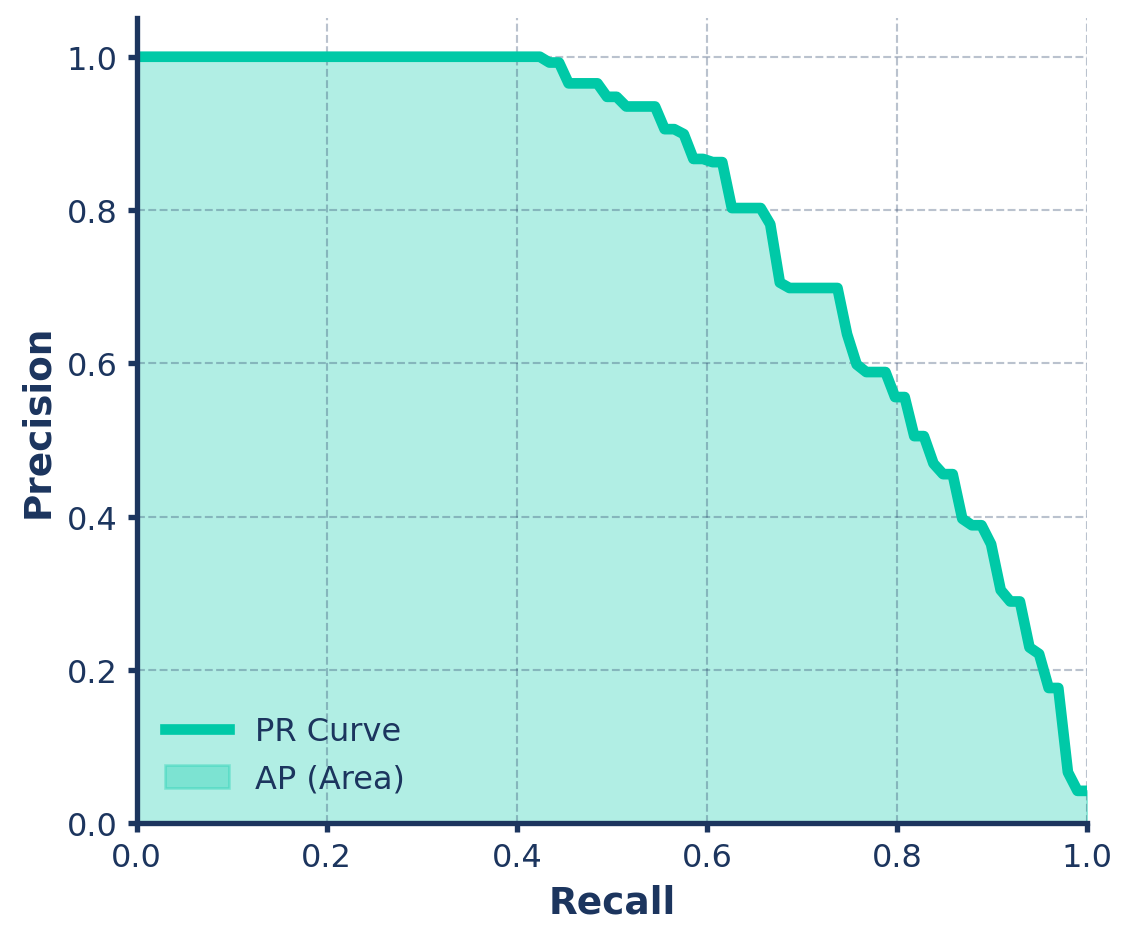
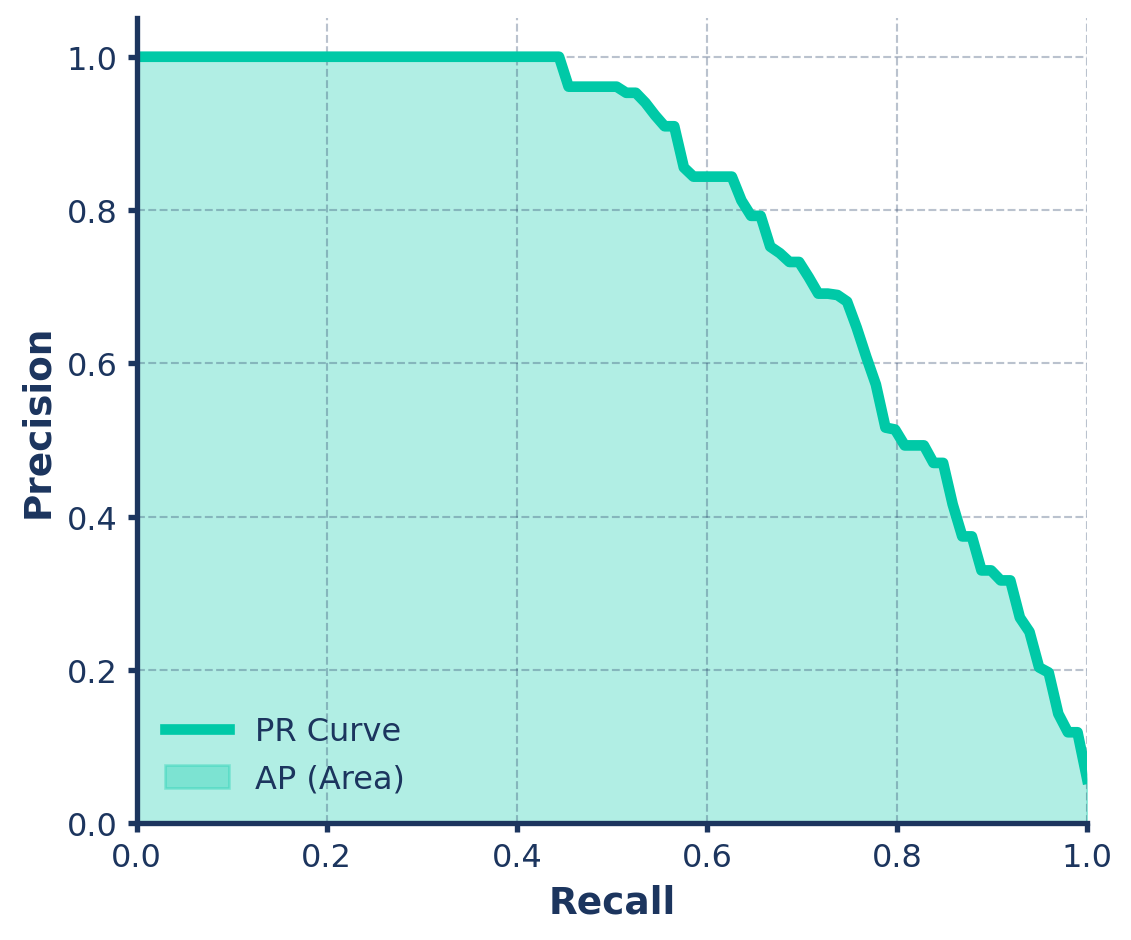
fix slides

Changed region(s): [[0.588, 0.1234, 0.9593, 0.8638], [0.4951, 0.0617, 0.588, 0.1234]]

diff --git a/docs/slides/Ultralytics_Foundations_1_Tasks_Inference.html b/docs/slides/Ultralytics_Foundations_1_Tasks_Inference.html
@@ -239,7 +239,7 @@
 <h2>Image Classification Output Concept</h2>
 <div class="columns">
 <div class="column" style="width:55%;">
-<div id="8253999c" class="cell" data-execution_count="2">
+<div id="8512382c" class="cell" data-execution_count="2">
 <div class="cell-output cell-output-display">
 <div class="quarto-figure quarto-figure-center">
 <figure>
@@ -255,11 +255,11 @@
 <li class="fragment"><strong><code>top1conf</code> (0.95)</strong>: Confidence score of the top class.</li>
 <li class="fragment"><strong><code>probs</code></strong>: Array of probabilities for <em>all</em> possible classes.</li>
 </ul>
-</div><div class="callout callout-note no-icon callout-style-simple">
+</div></div>
+<div class="callout callout-note no-icon callout-style-simple">
 <div class="callout-body">
 <div class="callout-content">
 <p><strong>Multi-Label Classification</strong> Since <code>probs</code> evaluates <em>every</em> class, we can predict <strong>multiple labels</strong> for a single image by applying a confidence threshold (e.g., keeping all classes with <code>prob &gt; 0.50</code>) instead of just taking the <code>top1</code> prediction.</p>
-</div>
 </div>
 </div>
 </div>
@@ -285,7 +285,7 @@
 <h2 data-id="quarto-animate-title">Object Detection Output &amp; Confidence</h2>
 <div class="columns" data-id="model-output">
 <div class="column" style="width:55%;">
-<div id="ac411e9d" class="cell" data-execution_count="3">
+<div id="d847902e" class="cell" data-execution_count="3">
 <div class="cell-output cell-output-display">
 <div class="quarto-figure quarto-figure-center">
 <figure>
@@ -302,11 +302,11 @@
 <li class="fragment"><strong><code>conf</code> (0.85)</strong>: The confidence score.</li>
 <li class="fragment"><strong><code>cls</code> (0)</strong>: The class ID.</li>
 </ul>
-</div><div class="callout callout-note no-icon callout-style-simple">
+</div></div>
+<div class="callout callout-note no-icon callout-style-simple">
 <div class="callout-body">
 <div class="callout-content">
 <p><strong>Filtering Predictions</strong> We use a <strong>Confidence Threshold</strong> to automatically drop weak predictions (e.g., ignoring any box with <code>conf &lt; 0.50</code>).</p>
-</div>
 </div>
 </div>
 </div>
@@ -315,7 +315,7 @@
 <h2 data-id="quarto-animate-title">Mapping to Bounding Boxes</h2>
 <div class="columns" data-id="model-output">
 <div class="column" style="width:55%;">
-<div id="9e78a7b2" class="cell" data-execution_count="4">
+<div id="5acf6836" class="cell" data-execution_count="4">
 <div class="cell-output cell-output-display">
 <div class="quarto-figure quarto-figure-center">
 <figure>
@@ -409,7 +409,7 @@ y_{max} &amp;= cy + \frac{h}{2} = 7.5 + 3.5 = 11.0
 <h2>Instance Segmentation Output Concept</h2>
 <div class="columns">
 <div class="column" style="width:55%;">
-<div id="a98473da" class="cell" data-execution_count="5">
+<div id="6708eac8" class="cell" data-execution_count="5">
 <div class="cell-output cell-output-display">
 <div class="quarto-figure quarto-figure-center">
 <figure>
@@ -449,7 +449,7 @@ y_{max} &amp;= cy + \frac{h}{2} = 7.5 + 3.5 = 11.0
 <h2>Pose Estimation Output Concept</h2>
 <div class="columns">
 <div class="column" style="width:55%;">
-<div id="e1a8e8ed" class="cell" data-execution_count="6">
+<div id="1a5fd2b9" class="cell" data-execution_count="6">
 <div class="cell-output cell-output-display">
 <div class="quarto-figure quarto-figure-center">
 <figure>
@@ -490,7 +490,7 @@ y_{max} &amp;= cy + \frac{h}{2} = 7.5 + 3.5 = 11.0
 <h2>OBB (Oriented Bounding Box) Output Concept</h2>
 <div class="columns">
 <div class="column" style="width:55%;">
-<div id="ceae7beb" class="cell" data-execution_count="7">
+<div id="62bb0c1d" class="cell" data-execution_count="7">
 <div class="cell-output cell-output-display">
 <div class="quarto-figure quarto-figure-center">
 <figure>
@@ -600,8 +600,10 @@ y_{max} &amp;= cy + \frac{h}{2} = 7.5 + 3.5 = 11.0
 </section>
 <section id="qa" class="slide level2 sdaia-dark" data-background-color="#1C355E">
 <h2>Q&amp;A</h2>
+<div class="r-fit-text">
 <p><strong>Thank You!</strong></p>
 <p>Any questions?</p>
+</div>
 
 </section></section>
     </div>

diff --git a/docs/slides/Ultralytics_Foundations_3_Evaluation_Deployment.html b/docs/slides/Ultralytics_Foundations_3_Evaluation_Deployment.html
@@ -222,7 +222,7 @@
 <h2>The Confusion Matrix</h2>
 <div class="columns">
 <div class="column" style="width:60%;">
-<div id="2111ae3b" class="cell" data-execution_count="1">
+<div id="47e1e4f2" class="cell" data-execution_count="1">
 <div class="cell-output cell-output-display">
 <div class="quarto-figure quarto-figure-center">
 <figure>
@@ -267,7 +267,7 @@ Recall   : 0.75</code></pre>
 <section id="intersection-over-union-iou" class="slide level2">
 <h2>Intersection over Union (IoU)</h2>
 <p>How perfectly does the predicted bounding box overlap the <em>ground truth</em> box?</p>
-<div id="6b9069bb" class="cell" data-execution_count="2">
+<div id="051985f4" class="cell" data-execution_count="2">
 <div class="cell-output cell-output-display">
 <div class="quarto-figure quarto-figure-center">
 <figure>
@@ -293,7 +293,7 @@ Recall   : 0.75</code></pre>
 <p>A common question is: “What if the model predicts two boxes for the same car?”</p>
 <div class="columns">
 <div class="column" style="width:50%;">
-<div id="63647eee" class="cell" data-execution_count="3">
+<div id="bdaa25d6" class="cell" data-execution_count="3">
 <div class="cell-output cell-output-display">
 <div class="quarto-figure quarto-figure-center">
 <figure>
@@ -356,7 +356,7 @@ Recall   : 0.75</code></pre>
 </div>
 <p><br></p>
 </div><div class="column" style="width:50%;">
-<div id="8c9ce34e" class="cell" data-execution_count="4">
+<div id="f05b056a" class="cell" data-execution_count="4">
 <div class="cell-output cell-output-display">
 <div class="quarto-figure quarto-figure-center">
 <figure>
@@ -437,8 +437,10 @@ Recall   : 0.75</code></pre>
 </section>
 <section id="qa" class="slide level2 sdaia-dark" data-background-color="#1C355E">
 <h2>Q&amp;A</h2>
+<div class="r-fit-text">
 <p><strong>Thank You!</strong></p>
 <p>Any questions?</p>
+</div>
 
 </section></section>
     </div>

diff --git a/docs/slides/Image_Foundations.html b/docs/slides/Image_Foundations.html
@@ -265,7 +265,7 @@
 <span id="cb1-10"><a href=""></a>    [<span class="dv">0</span>,<span class="dv">0</span>,<span class="dv">0</span>,<span class="dv">0</span>,<span class="dv">0</span>,<span class="dv">0</span>,<span class="dv">0</span>,<span class="dv">0</span>]</span>
 <span id="cb1-11"><a href=""></a>])</span></code></pre></div><button title="Copy to Clipboard" class="code-copy-button"><i class="bi"></i></button></div>
 </div><div class="column" style="width:50%;">
-<div id="df6455c7" class="cell" data-execution_count="1">
+<div id="39ec7687" class="cell" data-execution_count="1">
 <div class="cell-output cell-output-display">
 <div class="quarto-figure quarto-figure-center">
 <figure>
@@ -282,7 +282,7 @@
 <li>Images are 3D matrices (height × width × <strong>3 channels</strong>).</li>
 <li><strong>RGB</strong>: Red, Green, Blue. Values range from <code>0</code> (dark) to <code>255</code> (bright).</li>
 </ul>
-<div id="62a53151" class="cell" data-execution_count="2">
+<div id="72e35813" class="cell" data-execution_count="2">
 <div class="cell-output cell-output-display">
 <div class="quarto-figure quarto-figure-center">
 <figure>

diff --git a/docs/slides/Ultralytics_Foundations_2_Custom_Data_Training.html b/docs/slides/Ultralytics_Foundations_2_Custom_Data_Training.html
@@ -450,8 +450,10 @@
 </section>
 <section id="qa" class="slide level2 sdaia-dark" data-background-color="#1C355E">
 <h2>Q&amp;A</h2>
+<div class="r-fit-text">
 <p><strong>Thank You!</strong></p>
 <p>Any questions?</p>
+</div>
 
 </section></section>
     </div>

diff --git a/docs/slides/Ultralytics_Foundations_4_Real_World_Use_Cases.html b/docs/slides/Ultralytics_Foundations_4_Real_World_Use_Cases.html
@@ -473,8 +473,10 @@
 </section>
 <section id="qa" class="slide level2 sdaia-dark" data-background-color="#1C355E">
 <h2>Q&amp;A</h2>
+<div class="r-fit-text">
 <p><strong>Thank You!</strong></p>
 <p>Any questions?</p>
+</div>
 
 </section></section>
     </div>